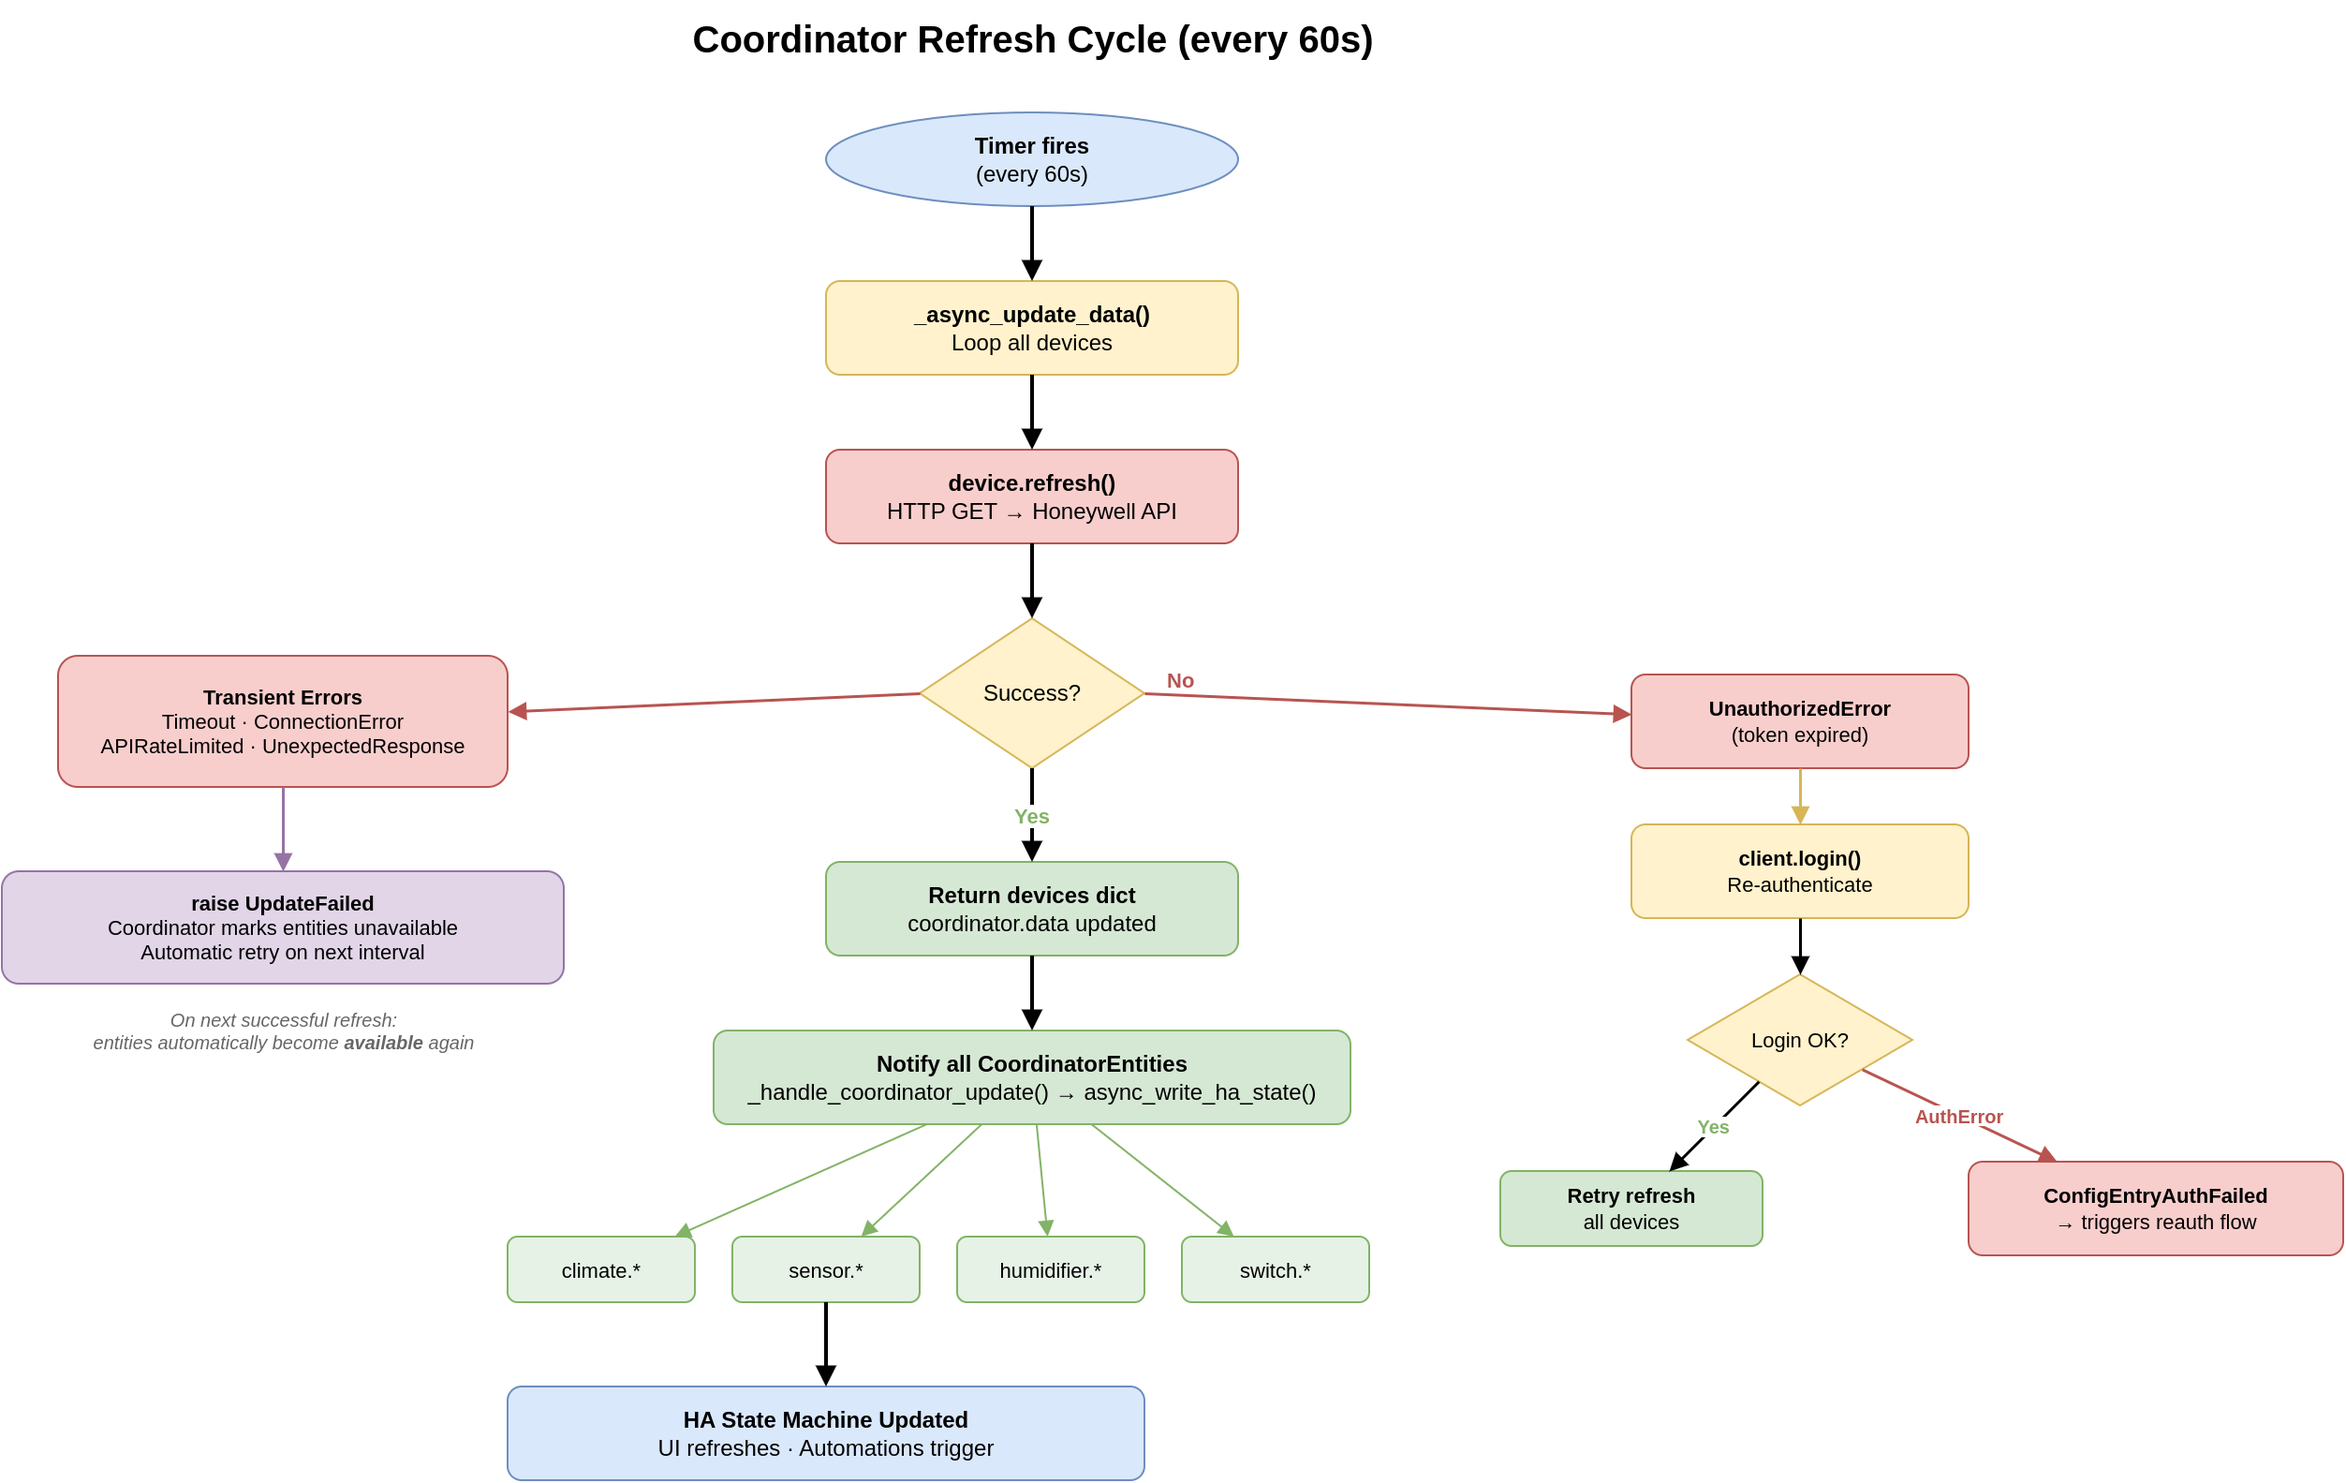
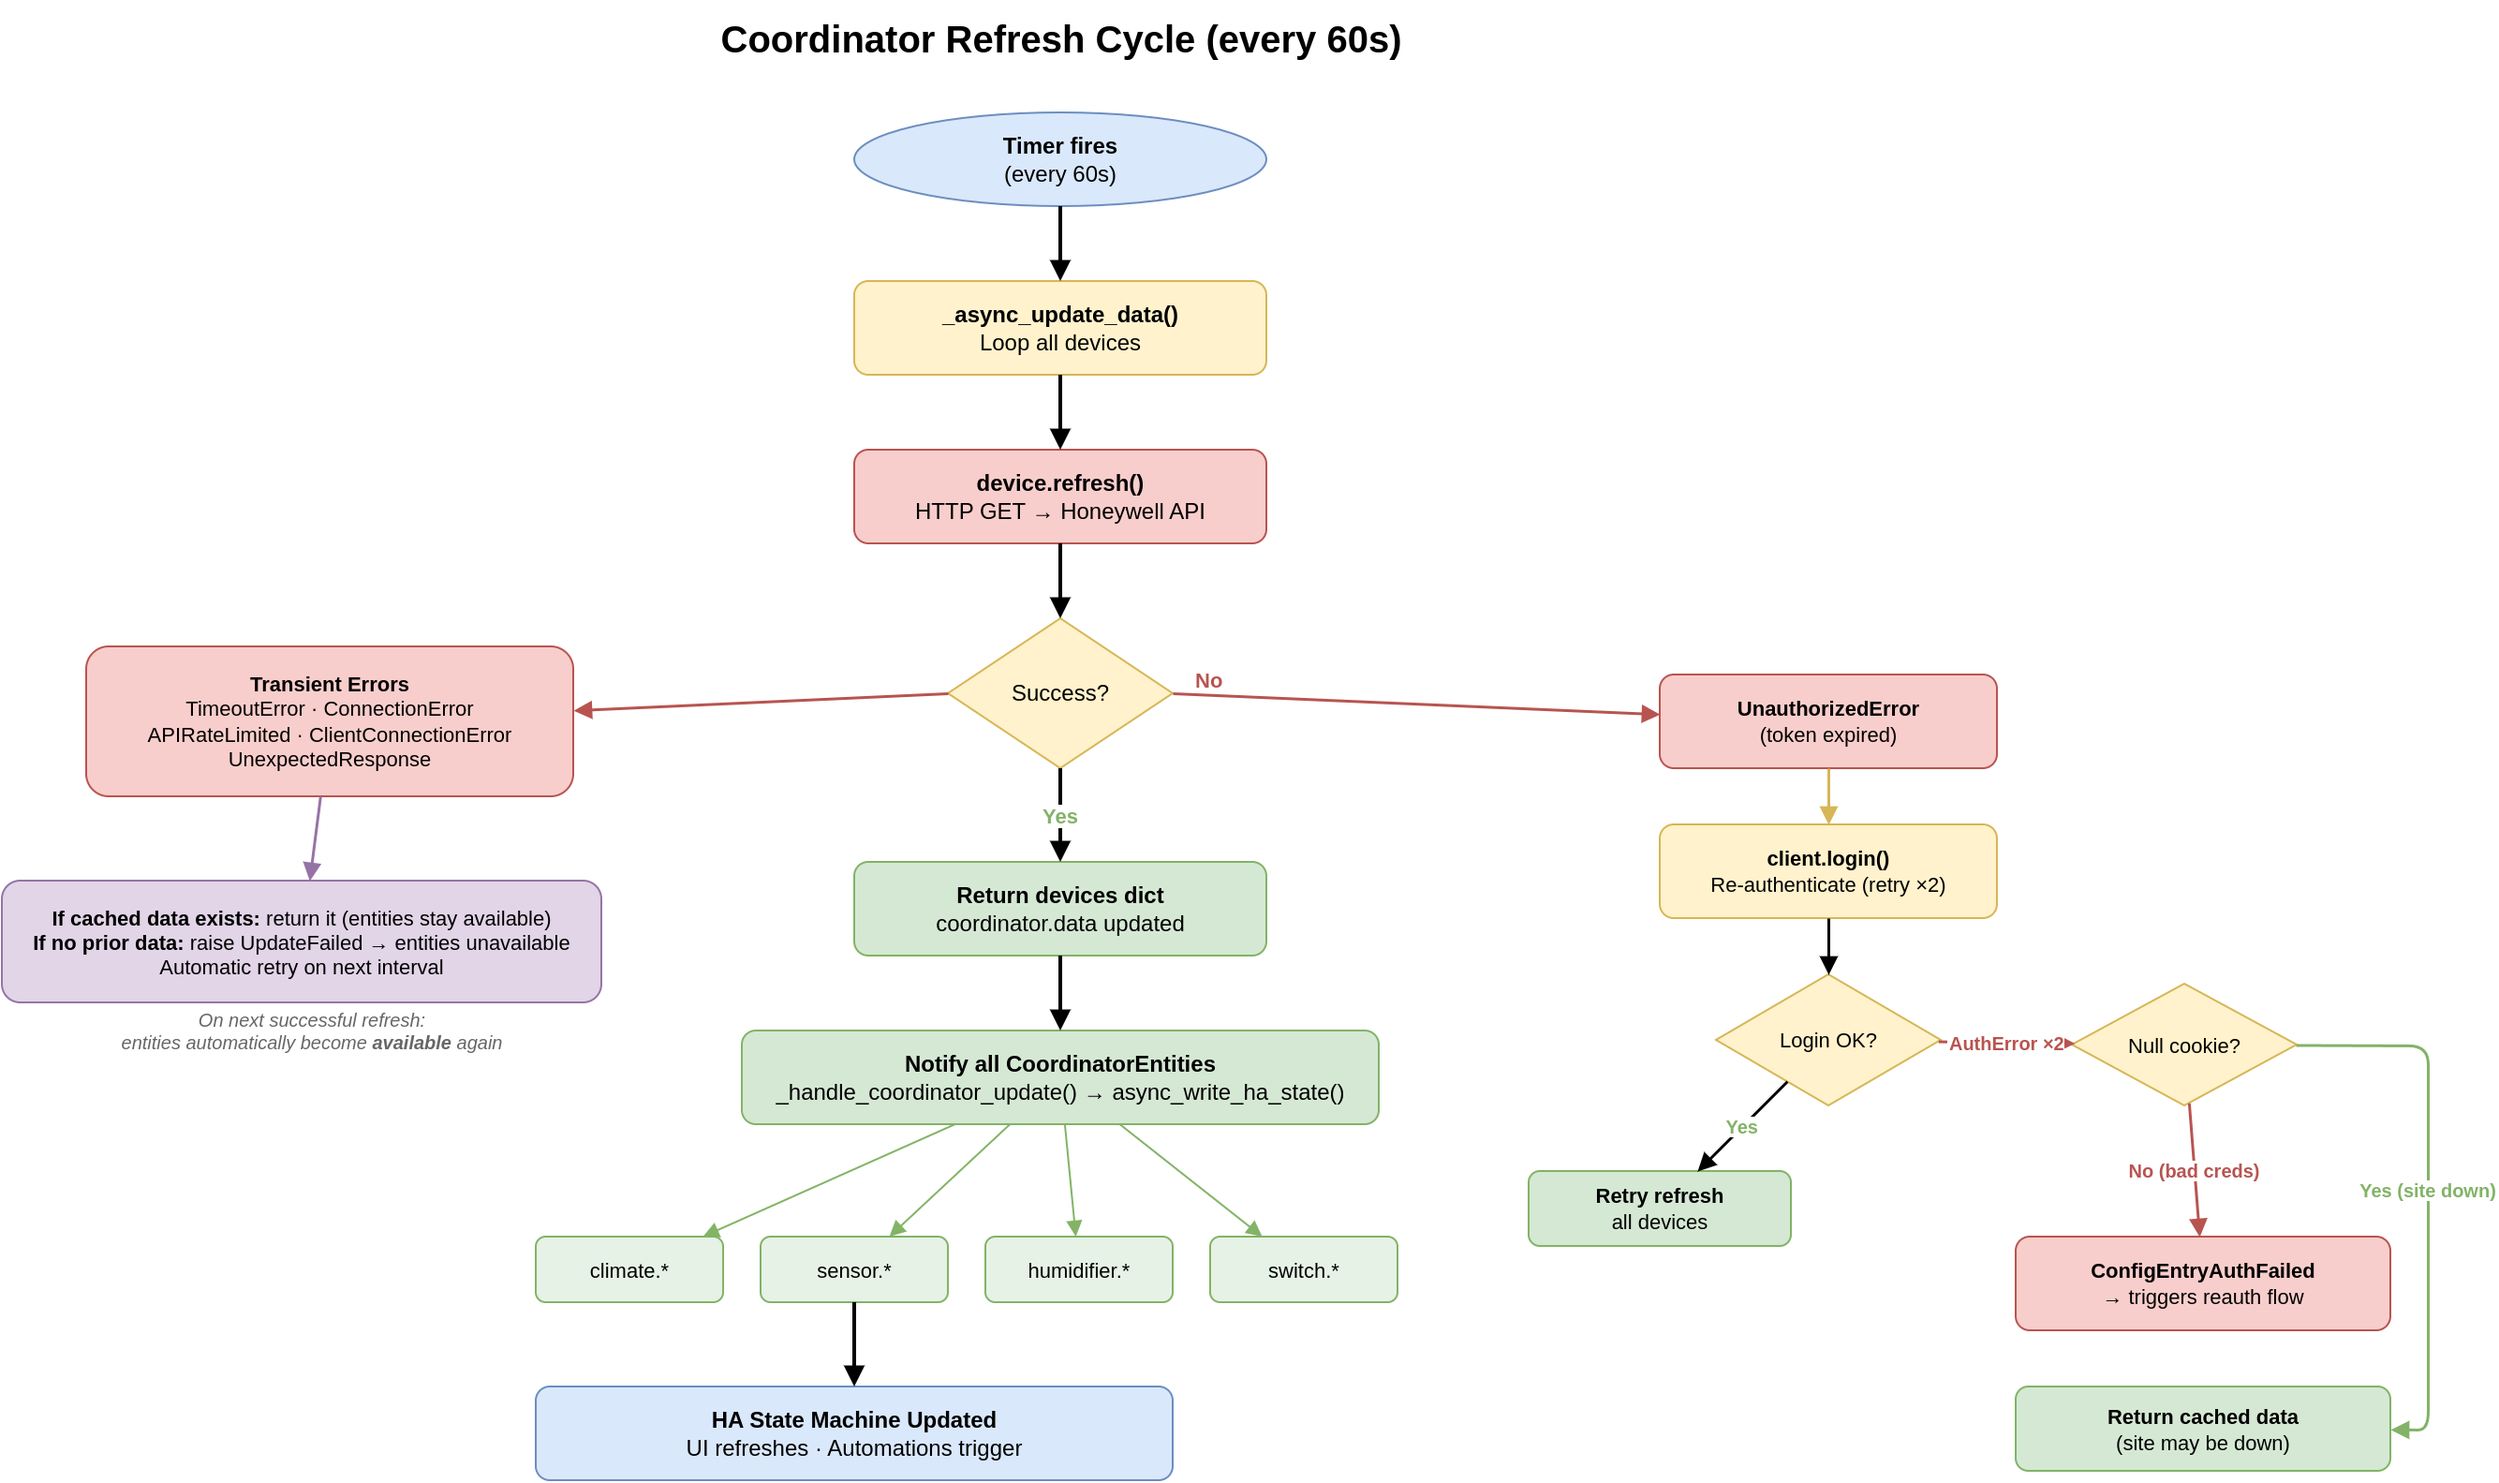
doco

diff --git a/README.md b/README.md
@@ -31,6 +31,17 @@ Copy `custom_components/honeywell/` into your Home Assistant
 2. Enter your mytotalconnectcomfort.com credentials
 3. Configure away temperatures via **Configure** options
 
+## Changes from Core
+
+Resilience and error handling improvements over the built-in `homeassistant.components.honeywell`:
+
+- **Cached data on transient errors** — coordinator returns last known state on timeout, connection, and rate-limit errors instead of marking entities unavailable
+- **Null cookie detection** — when the Honeywell site is down and returns empty auth cookies, the integration returns cached data instead of triggering a reauth flow that forces re-entry of valid credentials
+- **Service call error handling** — `TimeoutError` and `ClientConnectionError` from aiohttp are caught in all entity service methods (set_temperature, set_fan_mode, set_hvac_mode, turn_on/off, set_humidity) and surfaced as user-friendly error toasts instead of unhandled exceptions
+- **Login retry on transient auth errors** — Honeywell sometimes rejects valid credentials under load; setup retries once before backing off with `ConfigEntryNotReady`, avoiding unnecessary reauth prompts
+- **Login timeout** — 30-second timeout on login calls prevents a hung Honeywell API from blocking HA startup
+- **APIRateLimited during setup** — raises `ConfigEntryNotReady` with backoff instead of failing setup entirely
+
 ## Platforms
 
 - **Climate** — thermostat control (heat, cool, auto, off), fan modes, preset modes (away, hold)
